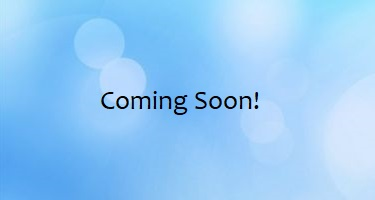
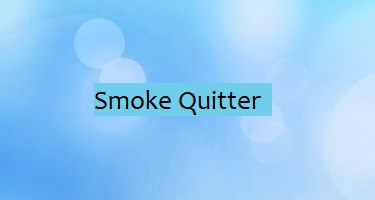
added second project link

Changed region(s): [[0.2347, 0.39, 0.7333, 0.6]]

diff --git a/index.html b/index.html
@@ -35,7 +35,8 @@
                         <a href="https://val-gee.github.io/weekly-task-manager/">
                         <img src="./assets/images/banner-top.jpg"/>
                     </section>
-                        <img src="./assets/images/banner2.jpg"/>
+                        <a href="https://group7-smokequitter.herokuapp.com/">
+                        <img src="./assets/images/banner2.jpg"/></a>
                         <img src="./assets/images/banner4.jpg"/>
                         <img src="./assets/images/banner3.jpg"/>
                         <img src="./assets/images/banner5.jpg"/>

diff --git a/assets/css/style.css b/assets/css/style.css
@@ -134,11 +134,12 @@ main div a {
 }
 /*formatting for project images*/
 .flex img {
-    width: 40%;
     height: auto;
     border-radius: 200px;
     margin: 20px;
 }
+
+
 /*shadow appears when projects hovered over*/
 .flex img:hover {
     box-shadow: 0px 0px 20px slategrey;
